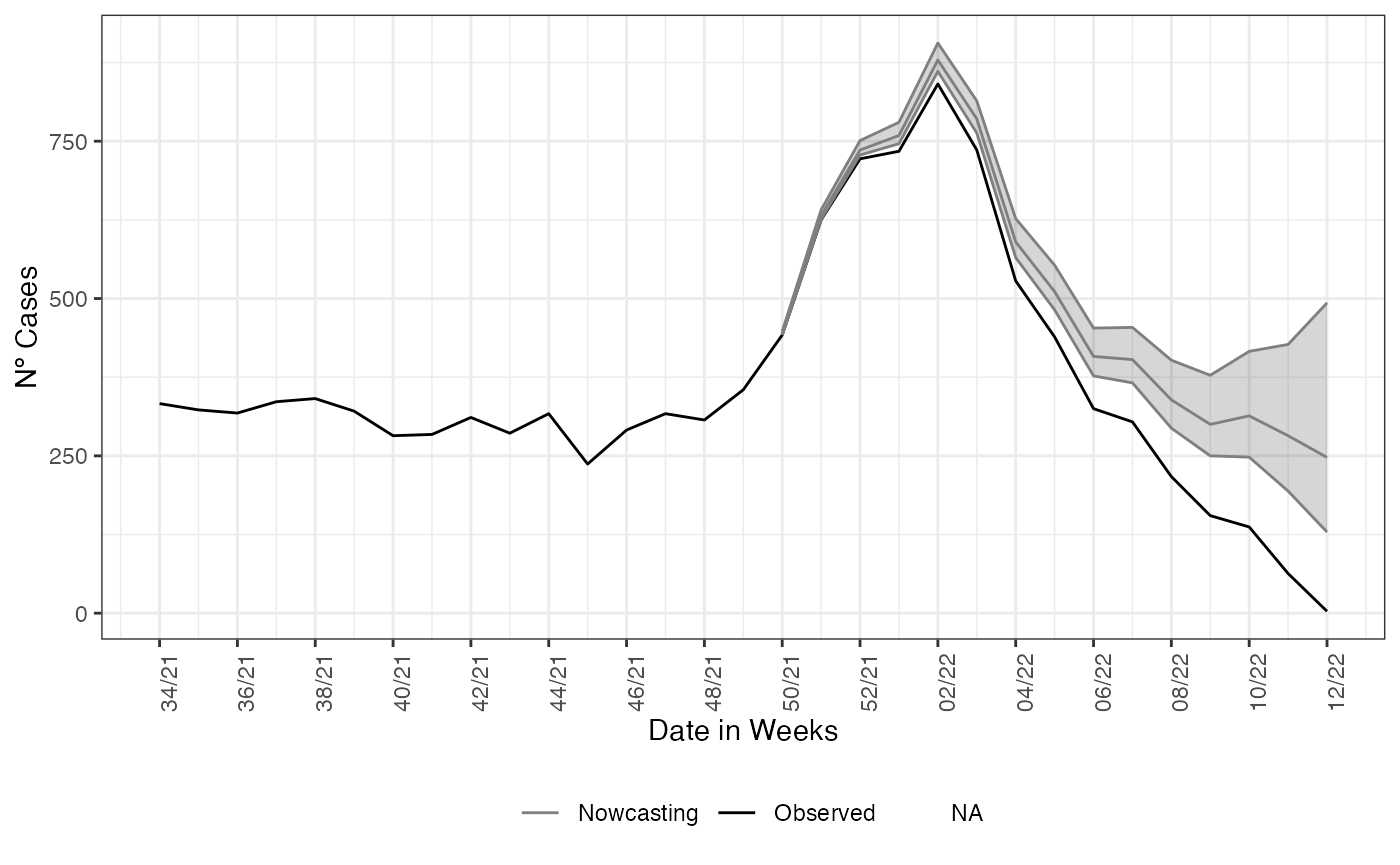
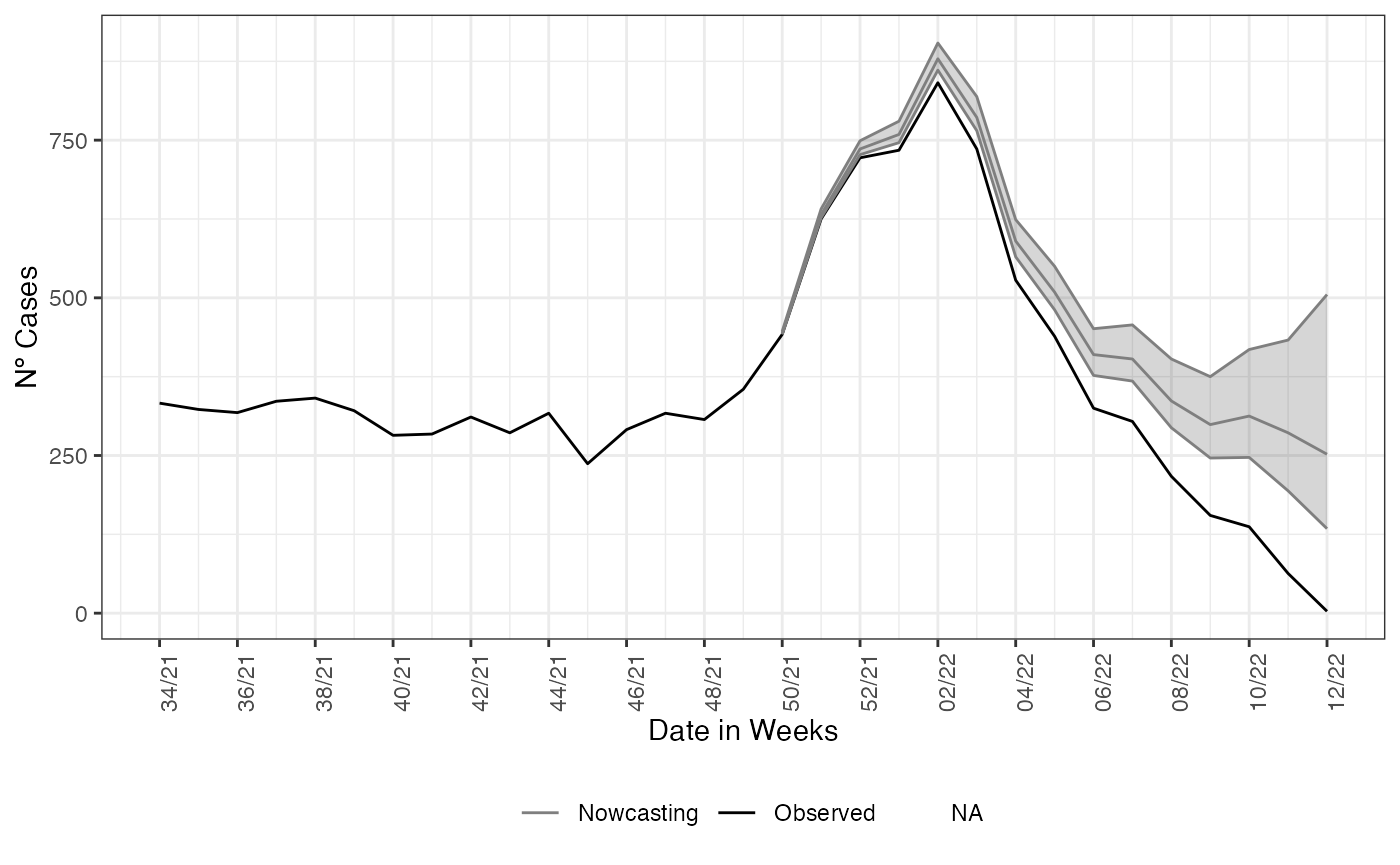
New site build

diff --git a/docs/reference/nowcasting_inla.html b/docs/reference/nowcasting_inla.html
@@ -179,21 +179,21 @@ If 'trajectories' = TRUE, add a forth element with the returned trajectories fro
 <span class="r-out co"><span class="r-pr">#&gt;</span> <span style="color: #949494;"># A tibble: 15 × 7</span></span>
 <span class="r-out co"><span class="r-pr">#&gt;</span>     Time dt_event   Median    LI    LS   LIb   LSb</span>
 <span class="r-out co"><span class="r-pr">#&gt;</span>    <span style="color: #949494; font-style: italic;">&lt;int&gt;</span> <span style="color: #949494; font-style: italic;">&lt;date&gt;</span>      <span style="color: #949494; font-style: italic;">&lt;dbl&gt;</span> <span style="color: #949494; font-style: italic;">&lt;dbl&gt;</span> <span style="color: #949494; font-style: italic;">&lt;dbl&gt;</span> <span style="color: #949494; font-style: italic;">&lt;dbl&gt;</span> <span style="color: #949494; font-style: italic;">&lt;dbl&gt;</span></span>
-<span class="r-out co"><span class="r-pr">#&gt;</span> <span style="color: #BCBCBC;"> 1</span>    17 2021-12-13   444.  442   448   443   445 </span>
-<span class="r-out co"><span class="r-pr">#&gt;</span> <span style="color: #BCBCBC;"> 2</span>    18 2021-12-20   632   627   642   630   634 </span>
-<span class="r-out co"><span class="r-pr">#&gt;</span> <span style="color: #BCBCBC;"> 3</span>    19 2021-12-27   736   728   751   733   740 </span>
-<span class="r-out co"><span class="r-pr">#&gt;</span> <span style="color: #BCBCBC;"> 4</span>    20 2022-01-03   759   747.  777   754   765 </span>
-<span class="r-out co"><span class="r-pr">#&gt;</span> <span style="color: #BCBCBC;"> 5</span>    21 2022-01-10   880   862.  903   872   887 </span>
-<span class="r-out co"><span class="r-pr">#&gt;</span> <span style="color: #BCBCBC;"> 6</span>    22 2022-01-17   787   766.  816.  778   796 </span>
-<span class="r-out co"><span class="r-pr">#&gt;</span> <span style="color: #BCBCBC;"> 7</span>    23 2022-01-24   591   565   625.  581   601 </span>
-<span class="r-out co"><span class="r-pr">#&gt;</span> <span style="color: #BCBCBC;"> 8</span>    24 2022-01-31   511   483   550   500   522 </span>
-<span class="r-out co"><span class="r-pr">#&gt;</span> <span style="color: #BCBCBC;"> 9</span>    25 2022-02-07   409   378.  456   396   422 </span>
-<span class="r-out co"><span class="r-pr">#&gt;</span> <span style="color: #BCBCBC;">10</span>    26 2022-02-14   404   368.  455   389   421 </span>
-<span class="r-out co"><span class="r-pr">#&gt;</span> <span style="color: #BCBCBC;">11</span>    27 2022-02-21   339   292   398   321.  358 </span>
-<span class="r-out co"><span class="r-pr">#&gt;</span> <span style="color: #BCBCBC;">12</span>    28 2022-02-28   300   245.  379.  279   321.</span>
-<span class="r-out co"><span class="r-pr">#&gt;</span> <span style="color: #BCBCBC;">13</span>    29 2022-03-07   316.  249.  421   291   346 </span>
-<span class="r-out co"><span class="r-pr">#&gt;</span> <span style="color: #BCBCBC;">14</span>    30 2022-03-14   288.  186   459.  251   337 </span>
-<span class="r-out co"><span class="r-pr">#&gt;</span> <span style="color: #BCBCBC;">15</span>    31 2022-03-21   254.  129.  488.  198.  321 </span>
+<span class="r-out co"><span class="r-pr">#&gt;</span> <span style="color: #BCBCBC;"> 1</span>    17 2021-12-13   444   442   448   443   445 </span>
+<span class="r-out co"><span class="r-pr">#&gt;</span> <span style="color: #BCBCBC;"> 2</span>    18 2021-12-20   632   627   642   630   635 </span>
+<span class="r-out co"><span class="r-pr">#&gt;</span> <span style="color: #BCBCBC;"> 3</span>    19 2021-12-27   736   727   749   733   741 </span>
+<span class="r-out co"><span class="r-pr">#&gt;</span> <span style="color: #BCBCBC;"> 4</span>    20 2022-01-03   759   746   777.  754   765 </span>
+<span class="r-out co"><span class="r-pr">#&gt;</span> <span style="color: #BCBCBC;"> 5</span>    21 2022-01-10   879   860   902   872   886 </span>
+<span class="r-out co"><span class="r-pr">#&gt;</span> <span style="color: #BCBCBC;"> 6</span>    22 2022-01-17   787   765.  818   779   797 </span>
+<span class="r-out co"><span class="r-pr">#&gt;</span> <span style="color: #BCBCBC;"> 7</span>    23 2022-01-24   591   565   629   581   602 </span>
+<span class="r-out co"><span class="r-pr">#&gt;</span> <span style="color: #BCBCBC;"> 8</span>    24 2022-01-31   510   483   549   500   522 </span>
+<span class="r-out co"><span class="r-pr">#&gt;</span> <span style="color: #BCBCBC;"> 9</span>    25 2022-02-07   410   375   453   397   423 </span>
+<span class="r-out co"><span class="r-pr">#&gt;</span> <span style="color: #BCBCBC;">10</span>    26 2022-02-14   403   367   455   390.  420 </span>
+<span class="r-out co"><span class="r-pr">#&gt;</span> <span style="color: #BCBCBC;">11</span>    27 2022-02-21   338   290   403.  321.  358 </span>
+<span class="r-out co"><span class="r-pr">#&gt;</span> <span style="color: #BCBCBC;">12</span>    28 2022-02-28   300   248.  373   277   324 </span>
+<span class="r-out co"><span class="r-pr">#&gt;</span> <span style="color: #BCBCBC;">13</span>    29 2022-03-07   314.  248.  417.  289   342.</span>
+<span class="r-out co"><span class="r-pr">#&gt;</span> <span style="color: #BCBCBC;">14</span>    30 2022-03-14   290.  188   445.  249   336 </span>
+<span class="r-out co"><span class="r-pr">#&gt;</span> <span style="color: #BCBCBC;">15</span>    31 2022-03-21   250.  120.  481.  196   311 </span>
 <span class="r-out co"><span class="r-pr">#&gt;</span> </span>
 </code></pre></div>
     </div>

diff --git a/docs/articles/nowcaster.html b/docs/articles/nowcaster.html
@@ -111,12 +111,12 @@ name for the date of report of the cases. Here this columns are
 <span><span class="co">#&gt; <span style="color: #949494;"># A tibble: 6 × 7</span></span></span>
 <span><span class="co">#&gt;    Time dt_event   Median    LI    LS   LIb   LSb</span></span>
 <span><span class="co">#&gt;   <span style="color: #949494; font-style: italic;">&lt;int&gt;</span> <span style="color: #949494; font-style: italic;">&lt;date&gt;</span>      <span style="color: #949494; font-style: italic;">&lt;dbl&gt;</span> <span style="color: #949494; font-style: italic;">&lt;dbl&gt;</span> <span style="color: #949494; font-style: italic;">&lt;dbl&gt;</span> <span style="color: #949494; font-style: italic;">&lt;dbl&gt;</span> <span style="color: #949494; font-style: italic;">&lt;dbl&gt;</span></span></span>
-<span><span class="co">#&gt; <span style="color: #BCBCBC;">1</span>    17 2021-12-13    444   442  448    443  445 </span></span>
-<span><span class="co">#&gt; <span style="color: #BCBCBC;">2</span>    18 2021-12-20    632   626  641    630  635 </span></span>
-<span><span class="co">#&gt; <span style="color: #BCBCBC;">3</span>    19 2021-12-27    736   727  750.   733  741 </span></span>
-<span><span class="co">#&gt; <span style="color: #BCBCBC;">4</span>    20 2022-01-03    760   746  778    754  765.</span></span>
-<span><span class="co">#&gt; <span style="color: #BCBCBC;">5</span>    21 2022-01-10    879   861  905    872  886.</span></span>
-<span><span class="co">#&gt; <span style="color: #BCBCBC;">6</span>    22 2022-01-17    787   765  816.   778  796</span></span></code></pre></div>
+<span><span class="co">#&gt; <span style="color: #BCBCBC;">1</span>    17 2021-12-13    444  442    448   443  445 </span></span>
+<span><span class="co">#&gt; <span style="color: #BCBCBC;">2</span>    18 2021-12-20    632  626    641   629  634 </span></span>
+<span><span class="co">#&gt; <span style="color: #BCBCBC;">3</span>    19 2021-12-27    736  728.   750   733  740 </span></span>
+<span><span class="co">#&gt; <span style="color: #BCBCBC;">4</span>    20 2022-01-03    760  747    780   755  766 </span></span>
+<span><span class="co">#&gt; <span style="color: #BCBCBC;">5</span>    21 2022-01-10    880  861    908   873  887 </span></span>
+<span><span class="co">#&gt; <span style="color: #BCBCBC;">6</span>    22 2022-01-17    787  766.   816   778  795.</span></span></code></pre></div>
 <p>This calling will return for the first element the nowcasting
 estimate and its Confidence Interval (CI) for two different Credible
 interval, <code>LIb</code> and <code>LSb</code> are the max and min CI,

diff --git a/docs/articles/1_structured_data.html b/docs/articles/1_structured_data.html
@@ -156,12 +156,12 @@ cases observed.</p>
 <span><span class="co">#&gt; <span style="color: #949494;"># A tibble: 6 × 7</span></span></span>
 <span><span class="co">#&gt;    Time dt_event   Median    LI    LS   LIb   LSb</span></span>
 <span><span class="co">#&gt;   <span style="color: #949494; font-style: italic;">&lt;int&gt;</span> <span style="color: #949494; font-style: italic;">&lt;date&gt;</span>      <span style="color: #949494; font-style: italic;">&lt;dbl&gt;</span> <span style="color: #949494; font-style: italic;">&lt;dbl&gt;</span> <span style="color: #949494; font-style: italic;">&lt;dbl&gt;</span> <span style="color: #949494; font-style: italic;">&lt;dbl&gt;</span> <span style="color: #949494; font-style: italic;">&lt;dbl&gt;</span></span></span>
-<span><span class="co">#&gt; <span style="color: #BCBCBC;">1</span>    17 2021-12-13    444   442  448    443   445</span></span>
-<span><span class="co">#&gt; <span style="color: #BCBCBC;">2</span>    18 2021-12-20    632   626  641    629   634</span></span>
-<span><span class="co">#&gt; <span style="color: #BCBCBC;">3</span>    19 2021-12-27    736   728  750    733   740</span></span>
-<span><span class="co">#&gt; <span style="color: #BCBCBC;">4</span>    20 2022-01-03    759   746  779    754   765</span></span>
-<span><span class="co">#&gt; <span style="color: #BCBCBC;">5</span>    21 2022-01-10    880   861  904.   873   887</span></span>
-<span><span class="co">#&gt; <span style="color: #BCBCBC;">6</span>    22 2022-01-17    785   763  816    778   795</span></span></code></pre></div>
+<span><span class="co">#&gt; <span style="color: #BCBCBC;">1</span>    17 2021-12-13    444  442    448   443  445 </span></span>
+<span><span class="co">#&gt; <span style="color: #BCBCBC;">2</span>    18 2021-12-20    632  626    641   630  634 </span></span>
+<span><span class="co">#&gt; <span style="color: #BCBCBC;">3</span>    19 2021-12-27    736  727    749   733  740 </span></span>
+<span><span class="co">#&gt; <span style="color: #BCBCBC;">4</span>    20 2022-01-03    759  746.   779   754  765.</span></span>
+<span><span class="co">#&gt; <span style="color: #BCBCBC;">5</span>    21 2022-01-10    879  861    903   872  887 </span></span>
+<span><span class="co">#&gt; <span style="color: #BCBCBC;">6</span>    22 2022-01-17    786  765    816   778  795</span></span></code></pre></div>
 <p>The above calling will return only the nowcasting estimate and its
 Confidence Interval (CI) for two different credibility levels,
 <code>LIb</code> and <code>LSb</code> are the max and min CI,

diff --git a/docs/index.html b/docs/index.html
@@ -59,7 +59,7 @@
 </h1></div>
 <p><a href="https://github.com/covid19br/nowcaster" class="external-link"><img src="reference/figures/nowcaster.png" align="right" width="140"></a> <a href="https://github.com/covid19br/nowcaster" class="external-link"><img src="reference/figures/nowcaster_rev.png" align="right" width="140"></a></p>
 <!-- badges: start -->
-<!-- [![CRAN checks](https://cranchecks.info/badges/summary/nowcaster)](https://cran.r-project.org/web/checks/check_results_nowcaster.html) -->
+<!-- [![CRAN checks](https://badges.cranchecks.info/summary/nowcaster.svg)](https://cran.r-project.org/web/checks/check_results_nowcaster.html) -->
 <!-- [![Dependencies](https://tinyverse.netlify.com/badge/nowcaster)](https://cran.r-project.org/package=nowcaster) -->
 
 <p><code>nowcaster</code> is an R package for “nowcasting” epidemiological time-series on individual level data.</p>
@@ -90,7 +90,7 @@
 </h2>
 <p>There are other alternative packages, that can produce nowcasting estimation, here it is some options:</p>
 <ul>
-<li><a href="https://epiforecasts.io/EpiNow/" class="external-link">Epinow2</a></li>
+<li><a href="https://package.epinowcast.org/" class="external-link">Epinowcast</a></li>
 <li><a href="https://surveillance.r-forge.r-project.org/pkgdown/index.html" class="external-link">Surveillance</a></li>
 </ul>
 </div>
@@ -132,7 +132,7 @@
 <div class="dev-status">
 <h2 data-toc-skip>Dev status</h2>
 <ul class="list-unstyled">
-<li><a href="https://github.com/nowcaster" class="external-link"><img src="https://img.shields.io/badge/devel%20version-0.2.2-blue.svg"></a></li>
+<li><a href="https://github.com/nowcaster" class="external-link"><img src="https://img.shields.io/badge/devel%20version-0.2.3-blue.svg"></a></li>
 <li><a href="https://github.com/covid19br/nowcaster/blob/main/LICENSE.md" class="external-link"><img src="https://img.shields.io/badge/license-GPL%20(%3E=%203)-blue.svg" alt="License: GPL (&gt;= 3)"></a></li>
 <li><a href="https://lifecycle.r-lib.org/articles/stages.html#experimental" class="external-link"><img src="https://img.shields.io/badge/lifecycle-experimental-orange.svg"></a></li>
 </ul>

diff --git a/index.md b/index.md
@@ -5,10 +5,12 @@ Nowcaster
 <a href='https://github.com/covid19br/nowcaster'><img src='man/figures/nowcaster_rev.png' align="right" width="140" /></a>
 
 <!-- badges: start -->
-<!-- [![CRAN checks](https://cranchecks.info/badges/summary/nowcaster)](https://cran.r-project.org/web/checks/check_results_nowcaster.html) -->
+
+<!-- [![CRAN checks](https://badges.cranchecks.info/summary/nowcaster.svg)](https://cran.r-project.org/web/checks/check_results_nowcaster.html) -->
+
 <!-- [![Dependencies](https://tinyverse.netlify.com/badge/nowcaster)](https://cran.r-project.org/package=nowcaster) -->
 
-[![](https://img.shields.io/badge/devel%20version-0.2.2-blue.svg)](https://github.com/nowcaster)
+[![](https://img.shields.io/badge/devel%20version-0.2.3-blue.svg)](https://github.com/nowcaster)
 [![License: GPL (\>=
 3)](https://img.shields.io/badge/license-GPL%20(%3E=%203)-blue.svg)](https://github.com/covid19br/nowcaster/blob/main/LICENSE.md)
 [![](https://img.shields.io/badge/lifecycle-experimental-orange.svg)](https://lifecycle.r-lib.org/articles/stages.html#experimental)
@@ -72,5 +74,5 @@ please refer to the official
 There are other alternative packages, that can produce nowcasting
 estimation, here it is some options:
 
--   [Epinow2](https://epiforecasts.io/EpiNow/)
--   [Surveillance](https://surveillance.r-forge.r-project.org/pkgdown/index.html)
+- [Epinowcast](https://package.epinowcast.org/)
+- [Surveillance](https://surveillance.r-forge.r-project.org/pkgdown/index.html)
